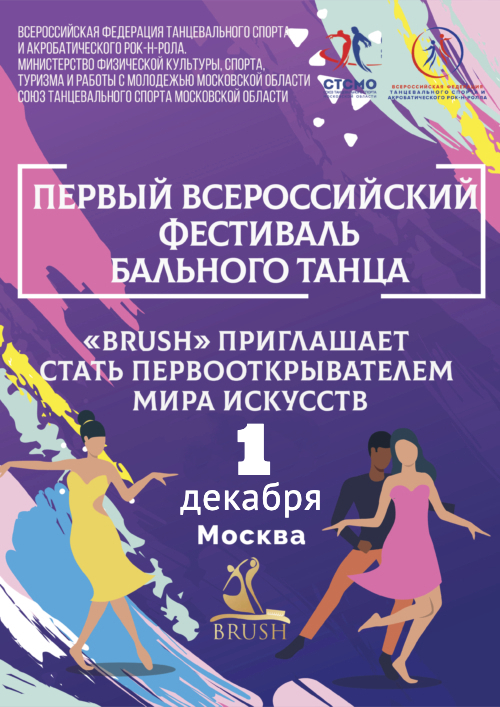
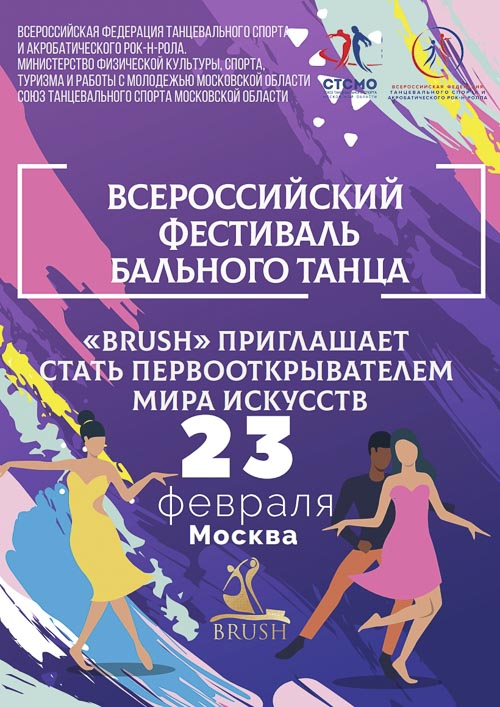
info update

diff --git a/pages/index.vue b/pages/index.vue
@@ -88,7 +88,7 @@
           <li>объединение и взаимодействие руководителей, преподавателей, педагогов, участников детских и юношеских коллективов.</li>
         </ul>
 
-        <h3>СРОКИ ПРОВЕДЕНИЯ: <i>1 декабря 2019 года.</i></h3>
+        <h3>СРОКИ ПРОВЕДЕНИЯ: <i>23 февраля 2020 года.</i></h3>
         <h3>МЕСТО ПРОВЕДЕНИЯ: <i>м. Сокольники, 4-й лучевой просек 4, танцевальный зал «MYCLYB».</i></h3>
 
         <h3>2. УЧАСТНИКИ ФЕСТИВАЛЯ:</h3>
@@ -108,11 +108,11 @@
 
         <h3>4. НОМИНАЦИИ КОНКУРСНОЙ ПРОГРАММЫ И КРИТЕРИИ ОЦЕНКИ:</h3>
         <ol>
-          <li>Бальные танцевальные номера на основе Европейской и Латиноамериканской программ (2 номера)</li>
+          <li>Бальные танцевальные номера на основе Европейской и Латиноамериканской программ</li>
           <li>Социальный клубный танец (мамба, бачата, сальса, аргентинское танго и др.);</li>
-          <li>Историко-бытовой танец (2 номера);</li>
+          <li>Историко-бытовой танец;</li>
           <li>Буги – вуги (социальный танец);</li>
-          <li>Танцевальное шоу (сюжетный танец) 2 номера;</li>
+          <li>Танцевальное шоу (сюжетный танец);</li>
           <li>American smooth;</li>
           <li>Секвей;</li>
           <li>Форейшн.</li>
@@ -148,8 +148,8 @@
 
         <h3>7. УСЛОВИЯ УЧАСТИЯ:</h3>
         <ol>
-          <li>Коллективы (участники) обязаны представить в номинации и возрастной категории по два номера (есть исключение по номинациям);</li>
-          <li>Общая продолжительность представленных номеров в каждой номинации не должна превышать 10 мин.;</li>
+          <li>Коллективы (участники) обязаны представить в конкурсной программе два номера.</li>
+          <li>Общая продолжительность представленных номеров в каждой номинации не должна превышать 10 мин.</li>
           <li>Общая продолжительность представленных номеров построенных по правилам и требованиям «Формейшн» не должна превышать 12 мин.</li>
         </ol>
 
@@ -159,23 +159,26 @@
         <h3>ФИНАНСОВЫЕ УСЛОВИЯ ФЕСТИВАЛЯ</h3>
         <h4>Благотворительный целевой взнос.</h4>
 
-        <h4 class="red--text">В День Рождения фестиваля мы дарим Вам скидку на участие в размере 40%.</h4>
-
         <ul>
-          <li>Соло – <span class="red--text">1800</span> (<s>3000</s>) руб. с человека за 2 номера</li>
-          <li>Дуэт – <span class="red--text">1200</span> (<s>2000</s>) руб. с человека за 2 номера</li>
-          <li>Малая форма – <span class="red--text">1500</span> (<s>2500</s>) руб. с человека за 2 номера</li>
-          <li>До 10 человек – <span class="red--text">1200</span> (<s>2000</s>) руб. с человека за 2 номера</li>
-          <li>Свыше 11 человек – <span class="red--text">960</span> (<s>1600</s>) руб. с человека за 2 номера</li>
-          <li>Секвей – <span class="red--text">2400</span> (<s>4000</s>) руб. с пары за 1 номер</li>
+          <li>Соло – 1000 руб. с человека за один номер</li>
+          <li>Дуэт – 1000 руб. с человека за один номер</li>
+          <li>Малая форма – 800 руб. с человека за один номер</li>
+          <li>До 10 человек – 700 руб. с человека за один номер</li>
+          <li>Свыше 11 человек – 600 руб. с человека за один номер</li>
+          <li>Секвей – 2000 руб. (пара) за один номер</li>
         </ul>
+
+        <h4 class="red--text">Акция “Пригласи друзей на Фестиваль”:</h4>
+
+        <p class="red--text">Условия акции:</p>
+        <p class="red--text">При условии участия Вашего коллектива в данном фестивале вы можете получить дополнительную скидку в 15% для оплаты участия вашего коллектива, а именно Вам необходимо пригласить другие знакомые Вам коллективы для участия в нашем фестивале. Скидку Вы получите при подтверждении участия приглашённых коллективов (заявка + оплата).</p>
 
         <h4>ВХОД для зрителей, родителей и сопровождающих лиц БЕСПЛАТНО.</h4>
 
         <h4>Порядок и сроки подачи заявок:</h4>
         <ul>
-          <li>Заявки принимаются в электронном виде (<a href="https://forms.gle/UKpj82JGUBMz9Kvd6">cсылка на заявку</a>).</li>
-          <li>Заявки принимаются до 29-го ноября (включительно).</li>
+          <li>Для подачи заявки, нужно заполнить <a href="https://forms.gle/UKpj82JGUBMz9Kvd6">форму на сайте</a> или отправить заполненный электронный документ на почту <a href="mailto:brush.festival@gmail.com">brush.festival@gmail.com</a></li>
+          <li>Заявки принимаются до 21-го февраля (включительно).</li>
         </ul>
 
         <h4>Программа фестиваля будет выслана по факту формирования заявок на электронный адрес.</h4>
@@ -192,10 +195,11 @@
   export default {
     data: () => ({
       items: [
-        { text: '1 декабря 2019г.', icon: 'mdi-calendar' },
+        { text: '23 февраля 2020г.', icon: 'mdi-calendar' },
         { text: 'Москва, 4-й Лучевой просек, 4', icon: 'mdi-city' },
-        { text: 'kopytnikoff@yandex.ru', icon: 'mdi-email' },
+        { text: 'brush.festival@gmail.com', icon: 'mdi-email' },
         { text: '8(903)798-41-02 (Николай Валентинович)', icon: 'mdi-phone' },
+        { text: '8(495)571-21-58 (офис)', icon: 'mdi-phone' }
       ],
       cards: [
         { title: 'Массовый спорт',
